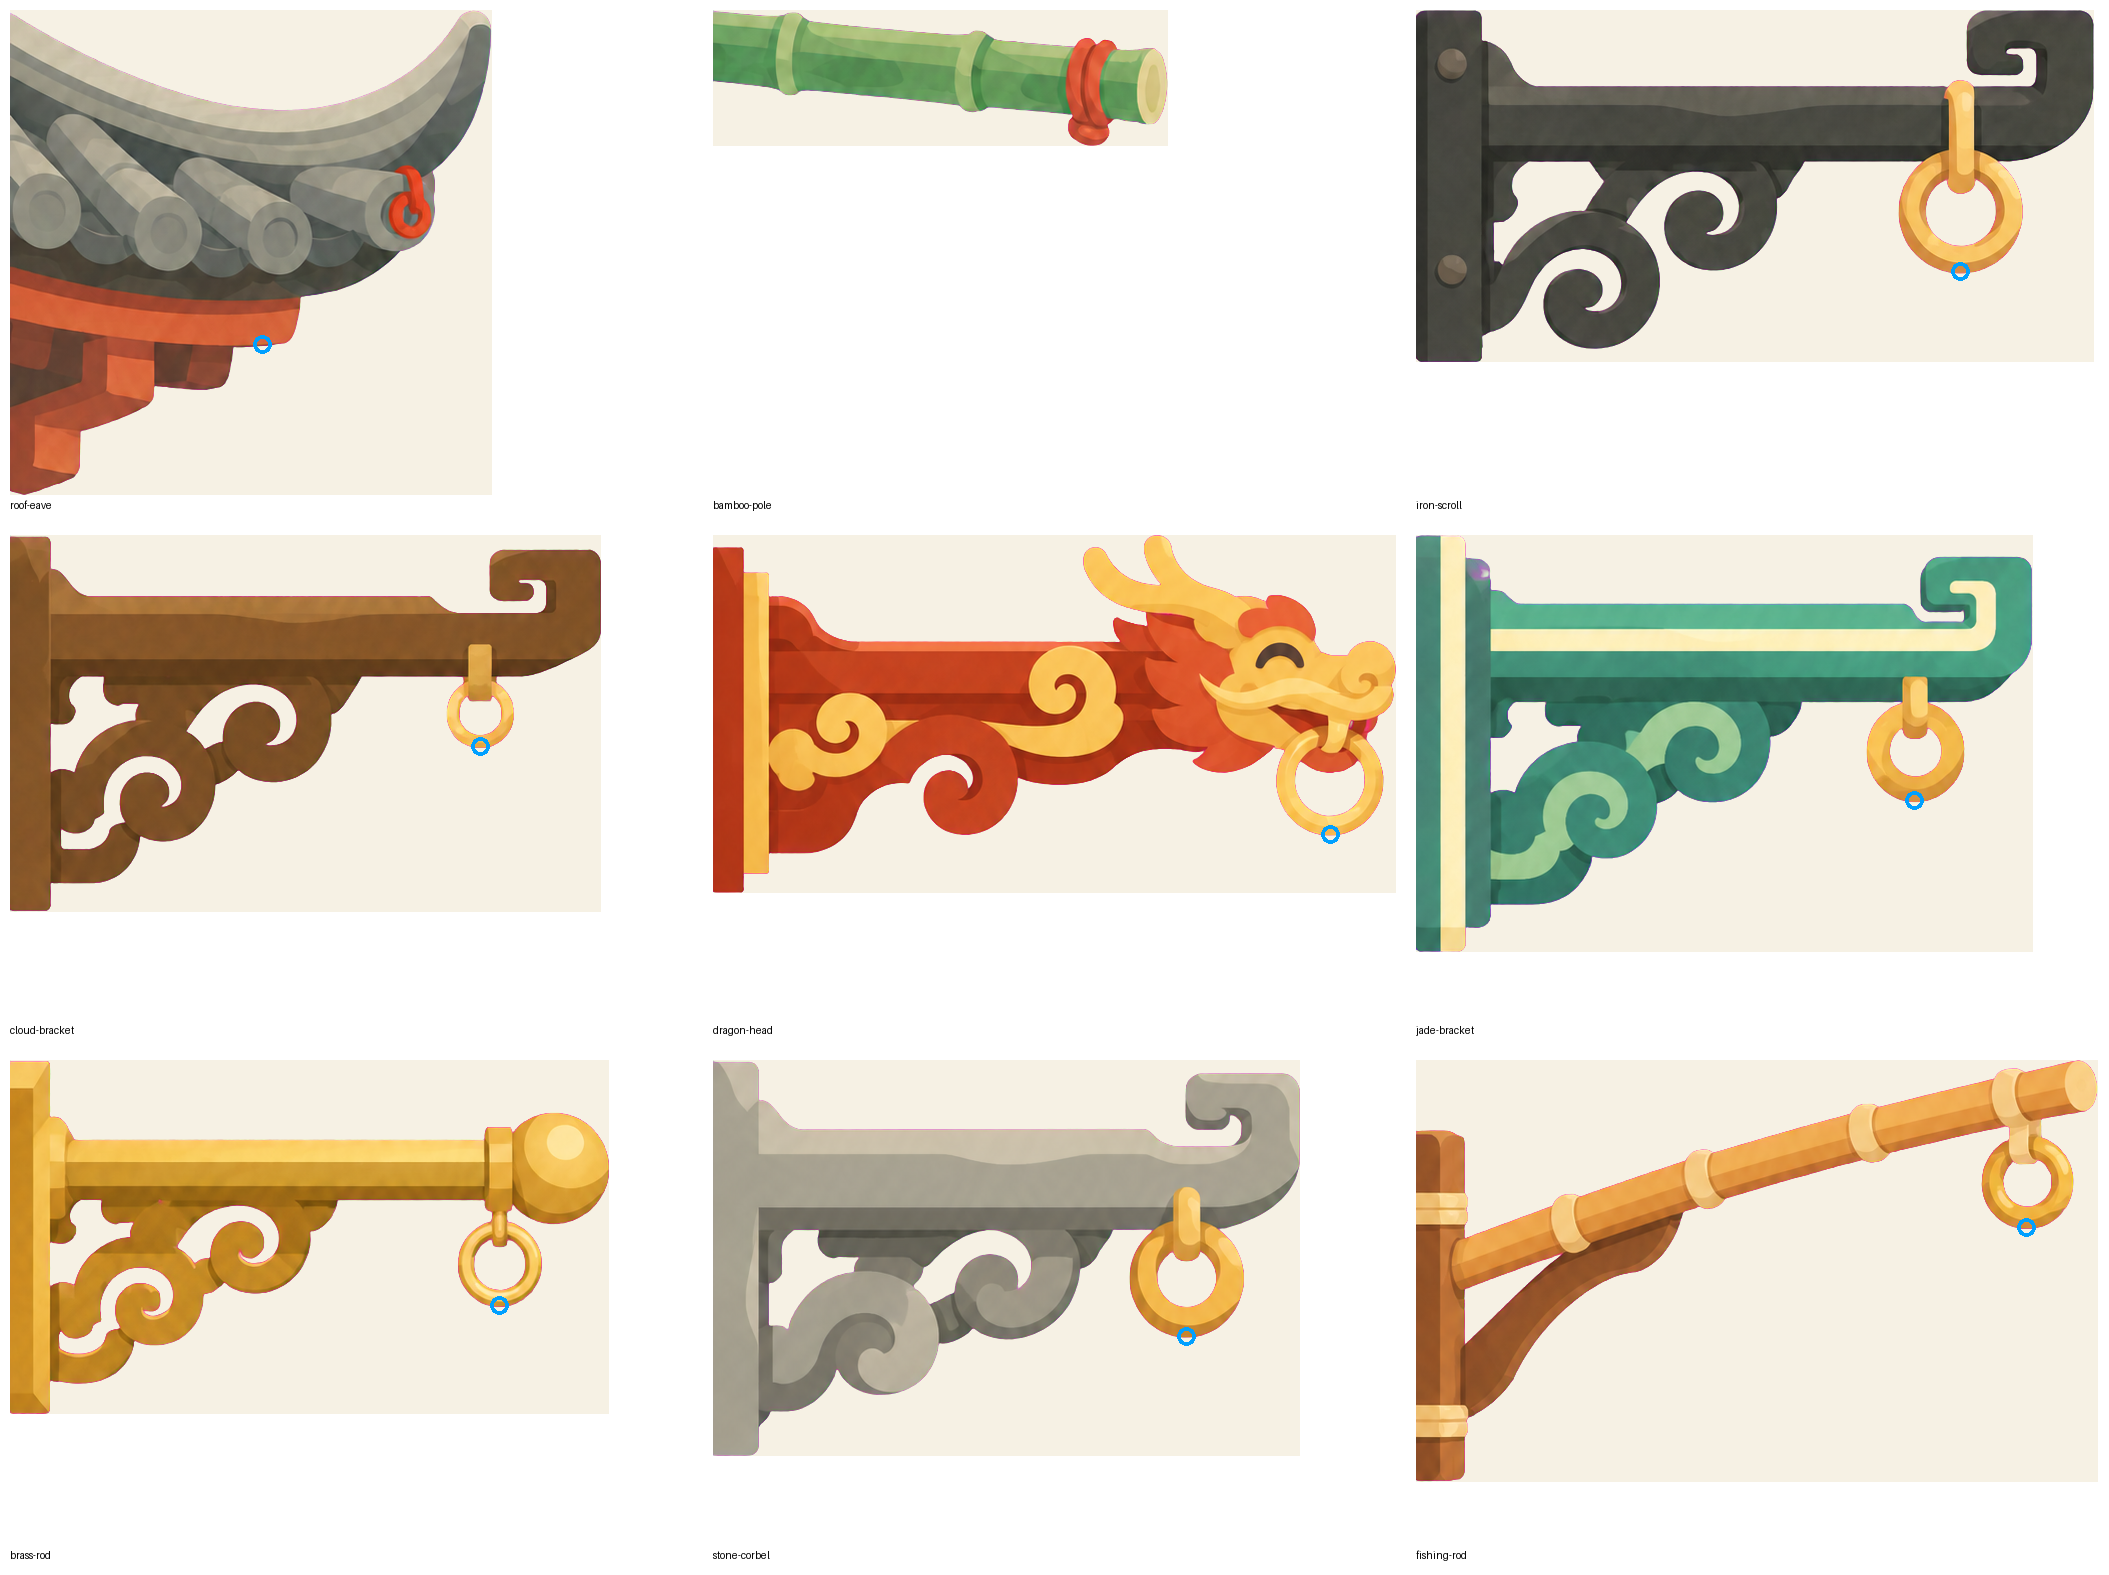
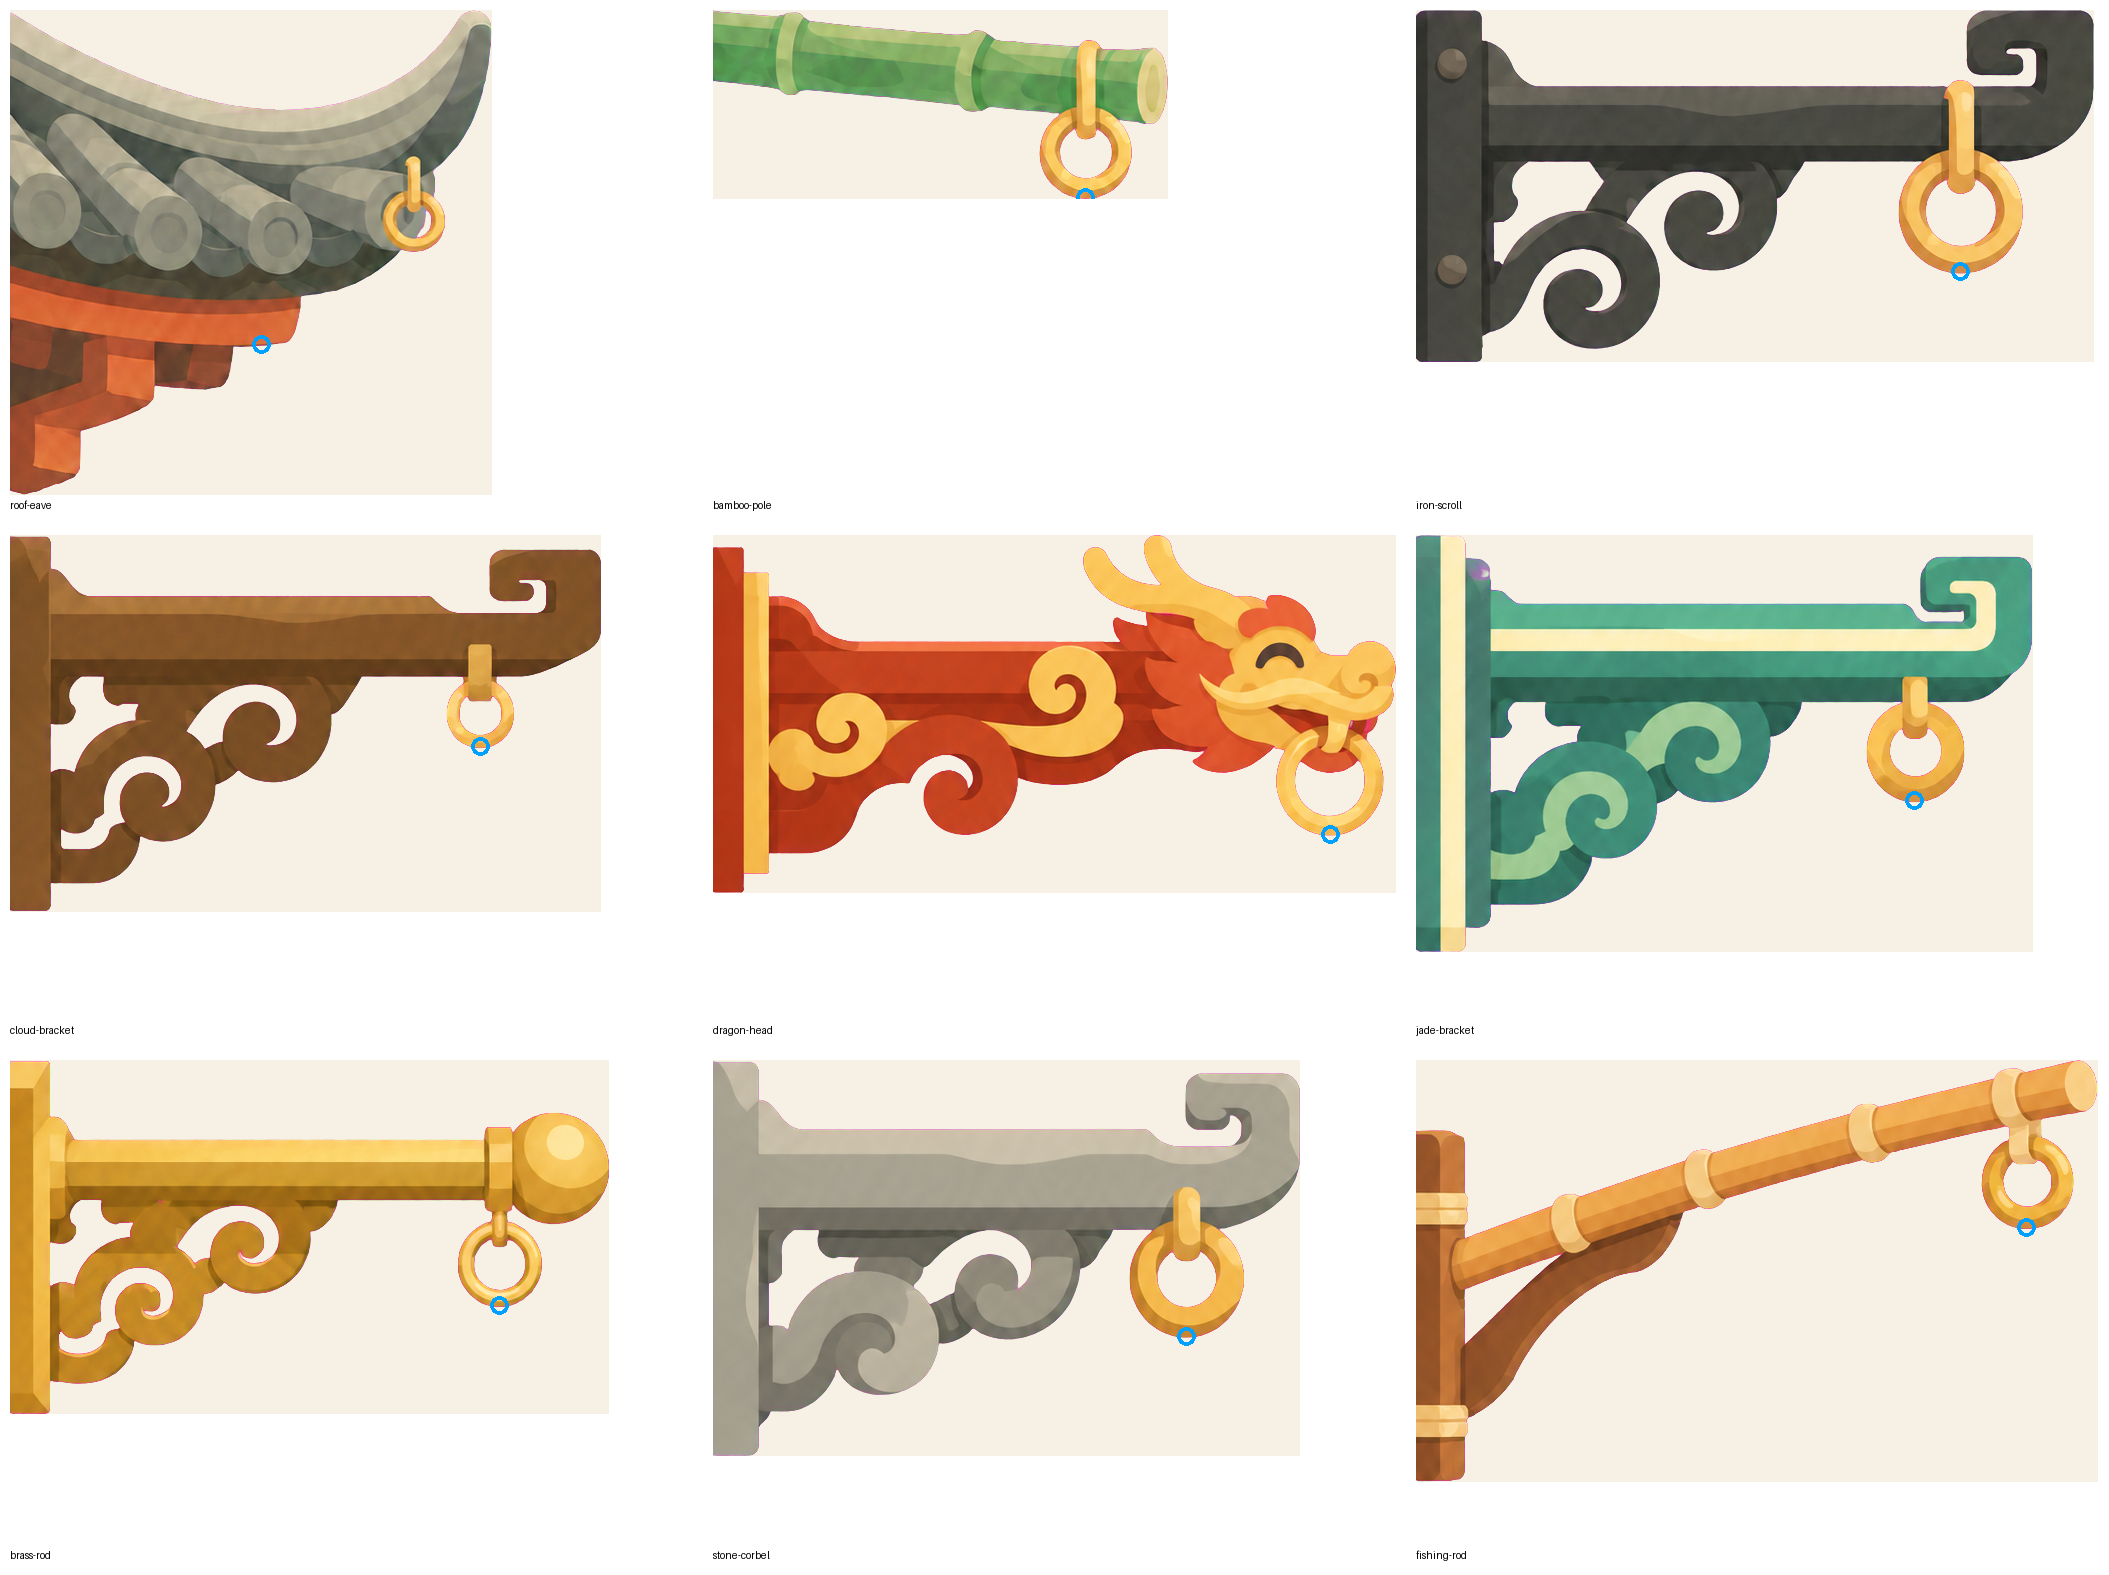
Hook pieces: the masters hung at 65%, the size of the brackets in the pieces already in the app; the two ring swaps in

Changed region(s): [[0.339, 0.0311, 0.5548, 0.1244], [0.1849, 0.0933, 0.2157, 0.1556]]

diff --git a/tools/art/hang.py b/tools/art/hang.py
@@ -26,6 +26,7 @@ MASTERS = os.path.join(HERE, "masters")
 BODY_W, BODY_H = 300, 420   # the object (not its cord), in the masters' pixels
 CORD = 70                   # visible cord, from the bottom of the ring to the object's top
 TUCK = 14                   # how far the cord runs up behind the ring
+MOUNT = 0.65                # the masters, scaled to the size of the brackets in the pieces already in the app
 
 
 def cord_and_body(im):
@@ -40,6 +41,8 @@ def cord_and_body(im):
 
 
 def hang(obj, master, tie):
+    master = master.resize((round(master.width * MOUNT), round(master.height * MOUNT)), Image.LANCZOS)
+    tie = (tie[0] * MOUNT, round(tie[1] * MOUNT))
     cx, body, _ = cord_and_body(obj)
     # the cord, cut to length: drop the rows above (body - CORD - TUCK in the scaled object)
     bw, bh = obj.width, obj.height - body
